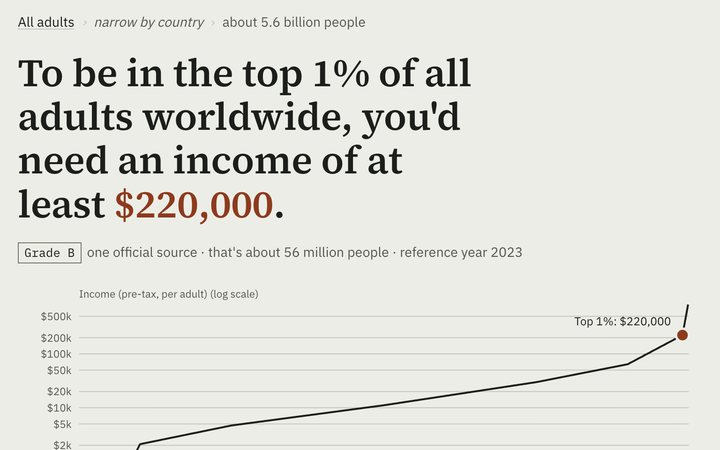
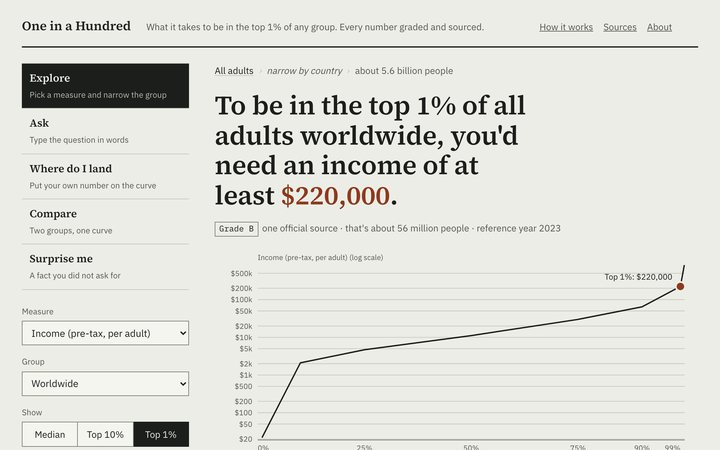
Add One in a Hundred; calmer one-accent restyle
Every tone class now resolves to a single accent, card bodies are plain,
chips are neutral, the gradient cards are gone, and category groups are
separated by hairlines. One in a Hundred joins Apps and tools with a
thumbnail captured from its live app.

diff --git a/assets/site.css b/assets/site.css
@@ -4,9 +4,11 @@
   --bg:#fff; --bg-2:#f5f5f7; --card:#fff; --card-line:rgba(0,0,0,.08);
   --text:#1d1d1f; --text-2:#6e6e73; --line:#d2d2d7;
   --blue:#0066cc; --nav:rgba(251,251,253,.85); --nav-line:rgba(0,0,0,.08);
-  --shadow:0 10px 28px rgba(0,0,0,.10);
-  --c-blue:#0071e3; --c-green:#1f8a5b; --c-orange:#e8590c; --c-purple:#6e4fd8; --c-pink:#d6336c; --c-teal:#0b8f9c;
-  --t-blue:#e2eeff; --t-green:#ddf3e7; --t-orange:#ffeadb; --t-purple:#eae2fc; --t-pink:#fce0ec; --t-teal:#dcf3f6;
+  --shadow:0 8px 24px rgba(0,0,0,.08);
+  /* One accent. The tone classes in build.py stay, but all resolve to it, and card bodies are plain. */
+  --accent:#0066cc;
+  --c-blue:var(--accent); --c-green:var(--accent); --c-orange:var(--accent); --c-purple:var(--accent); --c-pink:var(--accent); --c-teal:var(--accent);
+  --t-blue:var(--card); --t-green:var(--card); --t-orange:var(--card); --t-purple:var(--card); --t-pink:var(--card); --t-teal:var(--card);
   --font:-apple-system,BlinkMacSystemFont,"SF Pro Display","SF Pro Text","Helvetica Neue",Helvetica,Arial,sans-serif;
   --mono:"SF Mono",Menlo,Consolas,monospace;
   --max:1120px; --r:16px;
@@ -17,8 +19,9 @@
   --text:#f5f5f7; --text-2:#a1a1a6; --line:#3a3a3c;
   --blue:#409cff; --nav:rgba(0,0,0,.85); --nav-line:rgba(255,255,255,.1);
   --shadow:0 10px 28px rgba(0,0,0,.6);
-  --c-blue:#64b5ff; --c-green:#5fd695; --c-orange:#ffa860; --c-purple:#bda7ff; --c-pink:#ff7fb0; --c-teal:#6fdce6;
-  --t-blue:#1c1c1e; --t-green:#1c1c1e; --t-orange:#1c1c1e; --t-purple:#1c1c1e; --t-pink:#1c1c1e; --t-teal:#1c1c1e;
+  --accent:#409cff;
+  --c-blue:var(--accent); --c-green:var(--accent); --c-orange:var(--accent); --c-purple:var(--accent); --c-pink:var(--accent); --c-teal:var(--accent);
+  --t-blue:var(--card); --t-green:var(--card); --t-orange:var(--card); --t-purple:var(--card); --t-pink:var(--card); --t-teal:var(--card);
   color-scheme:dark;
 }
 *,*::before,*::after{box-sizing:border-box}
@@ -48,31 +51,31 @@ h1,h2,h3,h4,p{margin:0}
 @media (max-width:380px){.nav .wrap{gap:14px}.nav .opt-sm{display:none}}
 
 /* hero */
-.hero{display:grid;grid-template-columns:1.1fr 1fr;gap:32px;align-items:center;padding:44px 0 36px}
+.hero{display:grid;grid-template-columns:1.1fr 1fr;gap:40px;align-items:center;padding:56px 0 40px}
 .hero h1{font-size:clamp(40px,6vw,64px);line-height:1.02;font-weight:700;letter-spacing:-.025em;color:var(--text)}
-.hero .sub{font-size:19px;line-height:1.3;color:var(--text-2);margin-top:8px;max-width:44ch}
+.hero .sub{font-size:21px;line-height:1.3;color:var(--text-2);margin-top:12px;max-width:40ch}
 .hero .sub b{color:var(--text);font-weight:600}
 .cta{display:flex;gap:20px;margin-top:14px;font-size:15px;flex-wrap:wrap}
 .chips{display:flex;flex-wrap:wrap;gap:8px;margin-top:18px}
-.chip{font-size:12px;font-weight:600;padding:5px 10px;border-radius:999px;background:var(--t);color:var(--c);border:1px solid transparent}
-:root[data-theme="dark"] .chip{border-color:var(--c);background:transparent}
-.chip:hover{text-decoration:none;filter:brightness(.96)}
+.chip{font-size:12px;font-weight:500;padding:5px 11px;border-radius:999px;background:var(--bg-2);color:var(--text);border:1px solid var(--card-line)}
+.chip:hover{text-decoration:none;border-color:var(--accent);color:var(--accent)}
 .hero .mosaic{display:grid;grid-template-columns:repeat(2,1fr);gap:10px}
-.hero .mosaic img{aspect-ratio:16/10;object-fit:cover;border-radius:10px;box-shadow:var(--shadow);border:6px solid #fff;background:#fff}
+.hero .mosaic{gap:12px}
+.hero .mosaic img{aspect-ratio:16/10;object-fit:cover;border-radius:12px;border:1px solid var(--card-line);background:#fff;padding:6px}
 @media (max-width:860px){.hero{grid-template-columns:1fr;padding:32px 0 24px}.hero .mosaic{display:none}}
 
 /* sections */
-.section{padding:44px 0 0}
-.band{background:var(--bg-2);padding:40px 0 48px;margin-top:48px}
+.section{padding:56px 0 0}
+.band{background:var(--bg-2);padding:48px 0 56px;margin-top:56px}
 .band .section{padding:0}
 .section-head{display:flex;align-items:baseline;gap:14px;flex-wrap:wrap;margin-bottom:16px}
-.section-eyebrow{width:100%;font-size:12px;font-weight:700;letter-spacing:.06em;text-transform:uppercase;margin-bottom:-6px}
+.section-eyebrow{width:100%;font-size:12px;font-weight:600;letter-spacing:.04em;text-transform:uppercase;margin-bottom:-6px;color:var(--text-2)!important}
 .section-eyebrow.blue{color:var(--c-blue)}.section-eyebrow.orange{color:var(--c-orange)}
 .section-eyebrow.purple{color:var(--c-purple)}.section-eyebrow.green{color:var(--c-green)}
-.section-head h2{font-size:28px;line-height:1.1;font-weight:700;letter-spacing:-.02em}
+.section-head h2{font-size:32px;line-height:1.1;font-weight:700;letter-spacing:-.025em}
 .section-head p{font-size:15px;color:var(--text-2)}
-.group-head{display:flex;align-items:baseline;gap:10px;margin:22px 0 10px}
-.group-head h3{font-size:15px;font-weight:600;color:var(--c,var(--text))}
+.group-head{display:flex;align-items:baseline;gap:10px;margin:28px 0 12px;padding-top:12px;border-top:1px solid var(--line)}
+.group-head h3{font-size:15px;font-weight:600;color:var(--text)}
 .group-head span{font-size:13px;color:var(--text-2)}
 
 /* grids and cards */
@@ -88,12 +91,12 @@ h1,h2,h3,h4,p{margin:0}
 .card{background:var(--card);border:1px solid var(--card-line);border-radius:var(--r);overflow:hidden;
   display:flex;flex-direction:column;min-width:0;--c:var(--text-2);--t:var(--card);
   transition:transform .3s cubic-bezier(.2,.7,.2,1),box-shadow .3s}
-.card:hover{transform:translateY(-3px);box-shadow:var(--shadow)}
+.card:hover{transform:translateY(-2px);box-shadow:var(--shadow)}
 .card>a.pic{display:block;background:#fff;padding:10px}
 .card img.shot{width:100%;aspect-ratio:16/10;object-fit:cover;border-radius:8px;
   border:1px solid rgba(0,0,0,.10)}
 .card .body{padding:14px 16px 16px;background:var(--t);display:flex;flex-direction:column;gap:6px;flex:1}
-.card .eyebrow{font-size:11px;font-weight:700;letter-spacing:.02em;text-transform:uppercase;color:var(--c)}
+.card .eyebrow{font-size:11px;font-weight:600;letter-spacing:.03em;text-transform:uppercase;color:var(--text-2)}
 .card h3{font-size:18px;line-height:1.2;font-weight:600;letter-spacing:-.015em}
 .card h3 a{color:var(--text)}
 .card.big h3{font-size:24px}
@@ -106,12 +109,8 @@ h1,h2,h3,h4,p{margin:0}
 .blue{--c:var(--c-blue);--t:var(--t-blue)}.green{--c:var(--c-green);--t:var(--t-green)}
 .orange{--c:var(--c-orange);--t:var(--t-orange)}.purple{--c:var(--c-purple);--t:var(--t-purple)}
 .pink{--c:var(--c-pink);--t:var(--t-pink)}.teal{--c:var(--c-teal);--t:var(--t-teal)}
-.card.dark{--t:#0b1a33;--c:#8fc3ff;border-color:transparent}
-.card.dark .body{background:linear-gradient(180deg,#0b1a33,#06101f)}
-.card.dark h3 a,.card.dark h3{color:#fff}.card.dark p{color:#b8c4d6}.card.dark .links a{color:#8fc3ff}
-.card.dark-purple{--t:#1b1240;--c:#c4b2ff;border-color:transparent}
-.card.dark-purple .body{background:linear-gradient(180deg,#1b1240,#0d0920)}
-.card.dark-purple h3 a,.card.dark-purple h3{color:#fff}.card.dark-purple p{color:#c3bde0}.card.dark-purple .links a{color:#b9a6ff}
+/* The lead and story cards used to be dark gradients; they are plain cards now. */
+.card.dark,.card.dark-purple{--c:var(--accent);--t:var(--card)}
 
 .card.wide{flex-direction:row}
 .card.wide>a.pic{flex:1.35;min-width:0;display:flex}
@@ -124,7 +123,7 @@ h1,h2,h3,h4,p{margin:0}
 /* stats */
 .stats a{display:flex;flex-direction:column;justify-content:center;padding:14px 16px;border-radius:var(--r);
   background:var(--t);border:1px solid var(--card-line);color:var(--text);min-width:0}
-.stats a:hover{text-decoration:none;transform:translateY(-3px);box-shadow:var(--shadow)}
+.stats a:hover{text-decoration:none;transform:translateY(-2px);box-shadow:var(--shadow)}
 .stats .v{font-size:30px;font-weight:700;letter-spacing:-.03em;line-height:1;color:var(--c)}
 .stats .l{font-size:12px;line-height:1.3;color:var(--text-2);margin-top:6px}
 

diff --git a/README.md b/README.md
@@ -42,7 +42,7 @@ To recapture a live page (Leeway's map does not render headless; use its writeup
 
 ## Styling and theme
 
-Apple.com idiom: system sans (SF on Apple devices, Helvetica/Arial elsewhere), white page with `#f5f5f7` bands, rounded cards, chevron links, compact type. Every screenshot sits in a white 10px mat with a hairline border, which is what keeps 30 visually different thumbnails looking like one set. Card bodies carry one of six tints (blue, green, orange, purple, pink, teal) mapped to project categories; each section opens with a colored kicker; the two anchor cards use a dark gradient body.
+Apple.com idiom: system sans (SF on Apple devices, Helvetica/Arial elsewhere), white page with `#f5f5f7` bands, rounded cards, chevron links, compact type. Every screenshot sits in a white 10px mat with a hairline border, which is what keeps 30 visually different thumbnails looking like one set. Since 2026-10-15 there is one accent (`--accent`, Apple blue): the six tone classes `build.py` emits (`blue`, `green`, ...) still exist but all resolve to that accent, card bodies are plain, chips are neutral pills, section eyebrows are grey, category groups are separated by a hairline, and the former dark gradient lead and story cards are plain cards. To bring colour back, give the `--c-*`/`--t-*` variables distinct values again in `assets/site.css`.
 
 Light is the default for every visitor. Dark is opt-in via the nav toggle, stored in `localStorage` and applied before first paint; dark uses `#1c1c1e` bordered cards on black with brightened accents, and the white image mats stay white by design. All colors are custom properties on `:root` and `:root[data-theme="dark"]` in `assets/site.css`. Layout holds at 320px and up. On phones the nav drops links rather than scrolling sideways: below 600px it hides Fine-tuning and Data stories (the `.opt` class), below 380px also GitHub (`.opt-sm`), since both destinations are still reachable from the page. Hover motion is disabled under `prefers-reduced-motion`.
 
